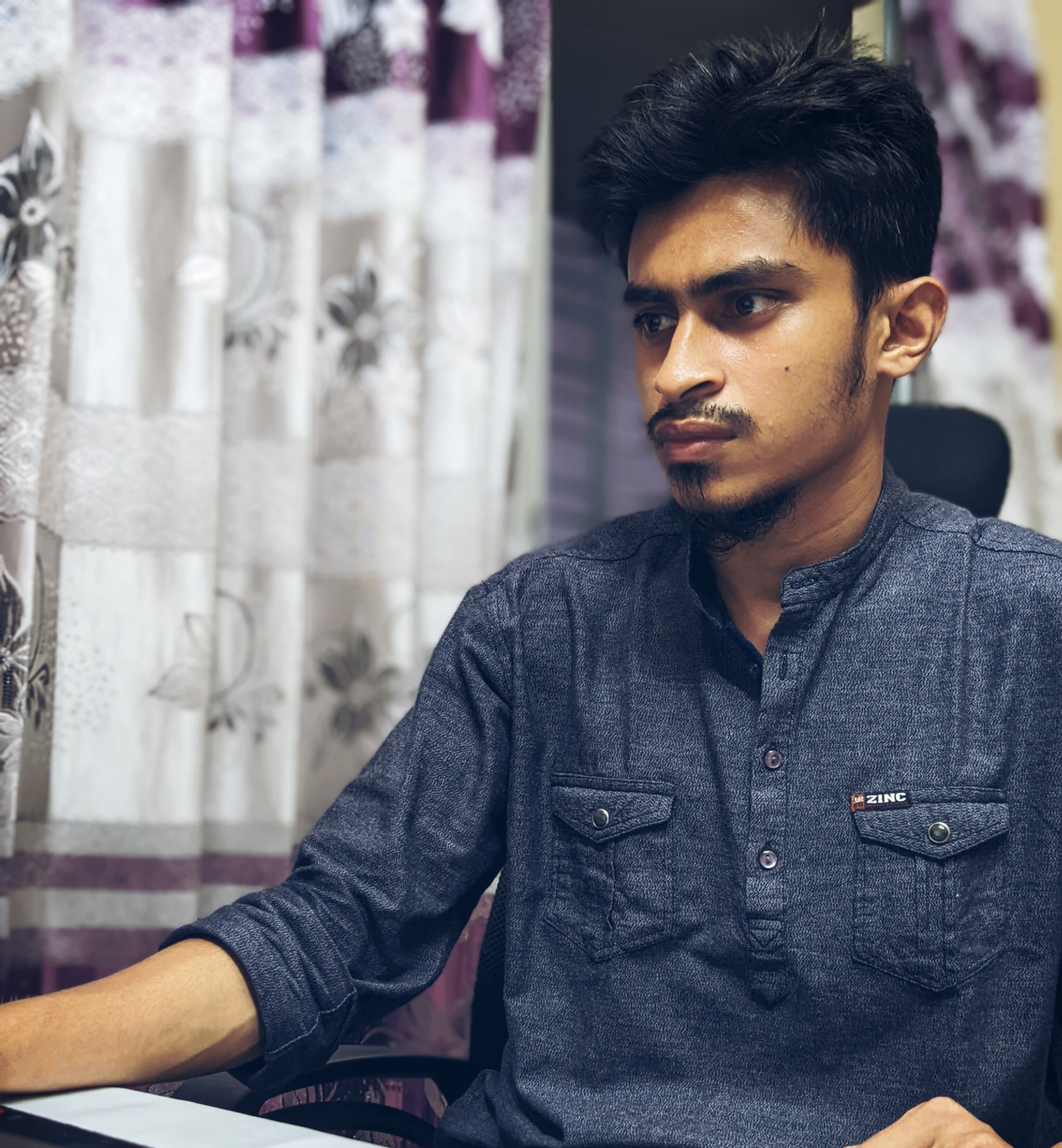
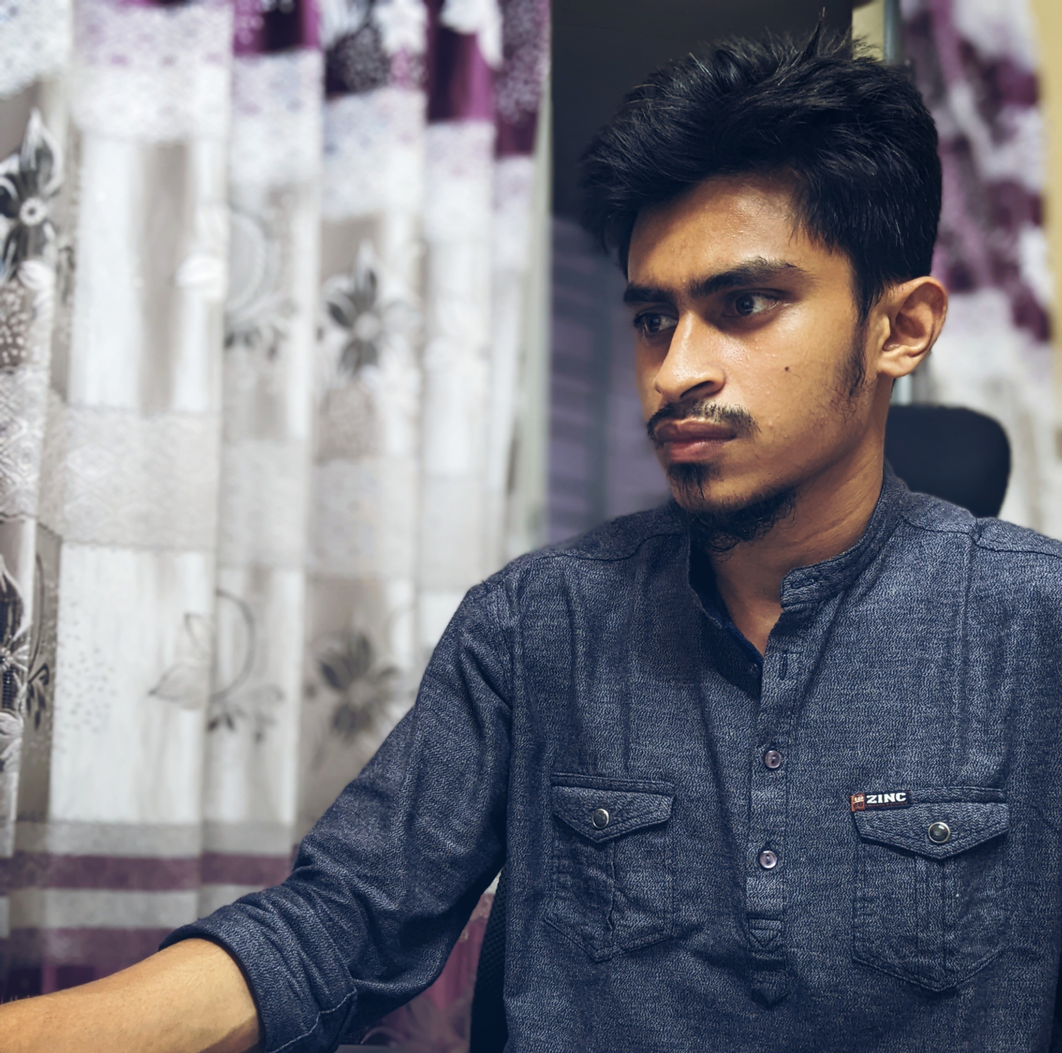
about us done

diff --git a/src/components/TeamSection/TeamSectionTwo.js b/src/components/TeamSection/TeamSectionTwo.js
@@ -15,13 +15,57 @@ const TeamSectionTwo = () => {
           </h2>
         </div>
         <Row className="clearfix justify-content-center">
-          {teams.slice(1, 4).map((team) => (
+         
             <SingleTeam
-              key={team.id}
-              team={team}
+              key={1}
+              team={ {
+                id: 1,
+                image: "team-2.jpg",
+                name: "MD Naymul Islam",
+                designation: "Founder & Frontend Engineer",
+                socials: [
+                  {
+                    id: 1,
+                    icon: "fab fa-facebook-square",
+                    href: "https://www.facebook.com/naymul.ctg",
+                  },
+                  {
+                    id: 2,
+                    icon: "fab fa-linkedin",
+                    href: "https://www.linkedin.com/in/dev-naymul",
+                  },
+                  {
+                    id: 3,
+                    icon: "fab fa-instagram",
+                    href: "https://www.instagram.com/naymul_mist/",
+                  }
+                ],
+              }}
               className="col-lg-4 col-md-6 col-sm-12"
             />
-          ))}
+            <SingleTeam
+              key={2}
+              team={ {
+                id: 1,
+                image: "team-3.jpg",
+                name: "Mohammad Sohan Khan",
+                designation: "Co-Founder & CTO",
+                socials: [
+                  {
+                    id: 1,
+                    icon: "fab fa-facebook-square",
+                    href: "https://www.facebook.com/chittagonian.king",
+                  },
+                  {
+                    id: 2,
+                    icon: "fab fa-linkedin",
+                    href: "https://www.linkedin.com/in/deepdiverguy/",
+                  }
+                ],
+              }}
+              className="col-lg-4 col-md-6 col-sm-12"
+            />
+          
         </Row>
       </div>
     </section>

diff --git a/src/data/teamSection.js b/src/data/teamSection.js
@@ -2,23 +2,18 @@ const socials = [
   {
     id: 1,
     icon: "fab fa-facebook-square",
-    href: "#",
+    href: "https://www.facebook.com/naymul.ctg",
   },
   {
     id: 2,
-    icon: "fab fa-twitter",
-    href: "#",
+    icon: "fab fa-linkedin",
+    href: "www.linkedin.com/in/dev-naymul",
   },
   {
     id: 3,
     icon: "fab fa-instagram",
-    href: "#",
-  },
-  {
-    id: 4,
-    icon: "fab fa-pinterest-p",
-    href: "#",
-  },
+    href: "https://www.instagram.com/naymul_mist/",
+  }
 ];
 
 const teamSection = {
@@ -28,21 +23,21 @@ const teamSection = {
       id: 1,
       image: "team-1.jpg",
       name: "MD Naymul Islam",
-      designation: "Designer",
+      designation: "founder & Frontend Engineer",
+      socials,
+    },
+    {
+      id: 1,
+      image: "team-2.jpg",
+      name: "MD Naymul Islam",
+      designation: "Founder & Frontend Engineer",
       socials,
     },
     {
       id: 2,
-      image: "team-2.jpg",
-      name: "MD Naymul Islam",
-      designation: "CO Founder",
-      socials,
-    },
-    {
-      id: 3,
       image: "team-3.jpg",
-      name: "Mohammad Shagor Khan",
-      designation: "co founder",
+      name: "Mohammad Sohan Khan",
+      designation: "Co-Founder & CTO",
       socials,
     },
     // {

diff --git a/src/styles/style.css b/src/styles/style.css
@@ -5293,10 +5293,10 @@ img.lazy-image.loaded {
 .team-block .image-box img {
   display: block;
   width: 100%;
-  -webkit-filter: grayscale(100%);
+  /* -webkit-filter: grayscale(100%);
   -ms-filter: grayscale(100%);
-  -moz-filter: grayscale(100%);
-  filter: grayscale(100%);
+  -moz-filter: grayscale(100%); */
+  /* filter: grayscale(100%); */
   -webkit-transition: all 500ms ease;
   transition: all 500ms ease;
   border-radius: 7px;
@@ -5323,6 +5323,11 @@ img.lazy-image.loaded {
 }
 
 .team-block .inner-box:hover .social-links {
+  opacity: 1;
+  -webkit-transform: translateY(0);
+  transform: translateY(0);
+}
+.team-block .inner-box .social-links {
   opacity: 1;
   -webkit-transform: translateY(0);
   transform: translateY(0);

diff --git a/src/pages/about.js b/src/pages/about.js
@@ -10,6 +10,7 @@ import MainFooter from "@/components/MainFooter/MainFooter";
 import ParallaxSection from "@/components/ParallaxSection/ParallaxSection";
 import Style from "@/components/Reuseable/Style";
 import SearchPopup from "@/components/SearchPopup/SearchPopup";
+import TeamSectionTwo from "@/components/TeamSection/TeamSectionTwo";
 import VideoOne from "@/components/VideoSection/VideoOne";
 import React from "react";
 
@@ -23,7 +24,7 @@ const About = () => {
       <PageBanner title="About" />
    
       <VideoOne />
-      {/* <TeamSectionTwo /> */}
+      <TeamSectionTwo />
       <DiscoverSection ShowTitle={false} />
       <FeatureSix />
       

diff --git a/src/components/CallToSection/CallToSectionTwo.js b/src/components/CallToSection/CallToSectionTwo.js
@@ -13,7 +13,7 @@ const CallToSectionTwo = ({
           We are ready to bring <br />your ideas into reality
           </h2>
           <div className="link-box">
-            <Link href="/contact-2">
+            <Link href="/contact">
               <a className={`theme-btn ${btnClassName}`}>
                 <i className="btn-curve"></i>
                 <span className="btn-title">Contact with us</span>

diff --git a/src/components/TeamSection/SingleTeam.js b/src/components/TeamSection/SingleTeam.js
@@ -3,8 +3,9 @@ import React, { forwardRef } from "react";
 import { Image } from "react-bootstrap";
 
 const SingleTeam = ({ team = {}, className = "" }, ref) => {
-  const { image, name, designation, socials } = team;
+  const { image, name, designation,socials } = team;
 
+  
   return (
     <div ref={ref} className={`team-block ${className}`}>
       <div className="inner-box">
